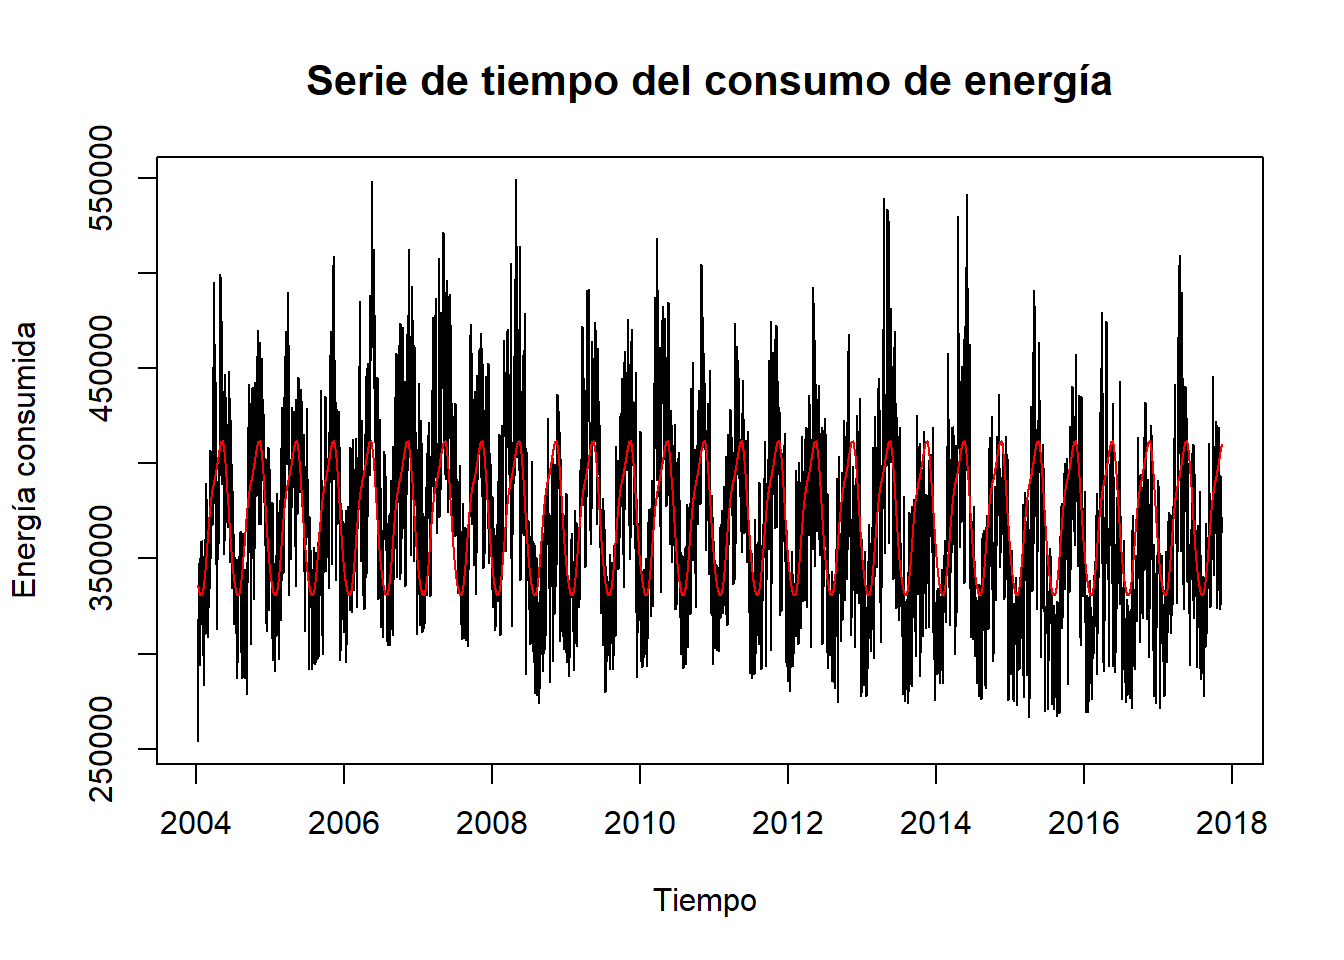
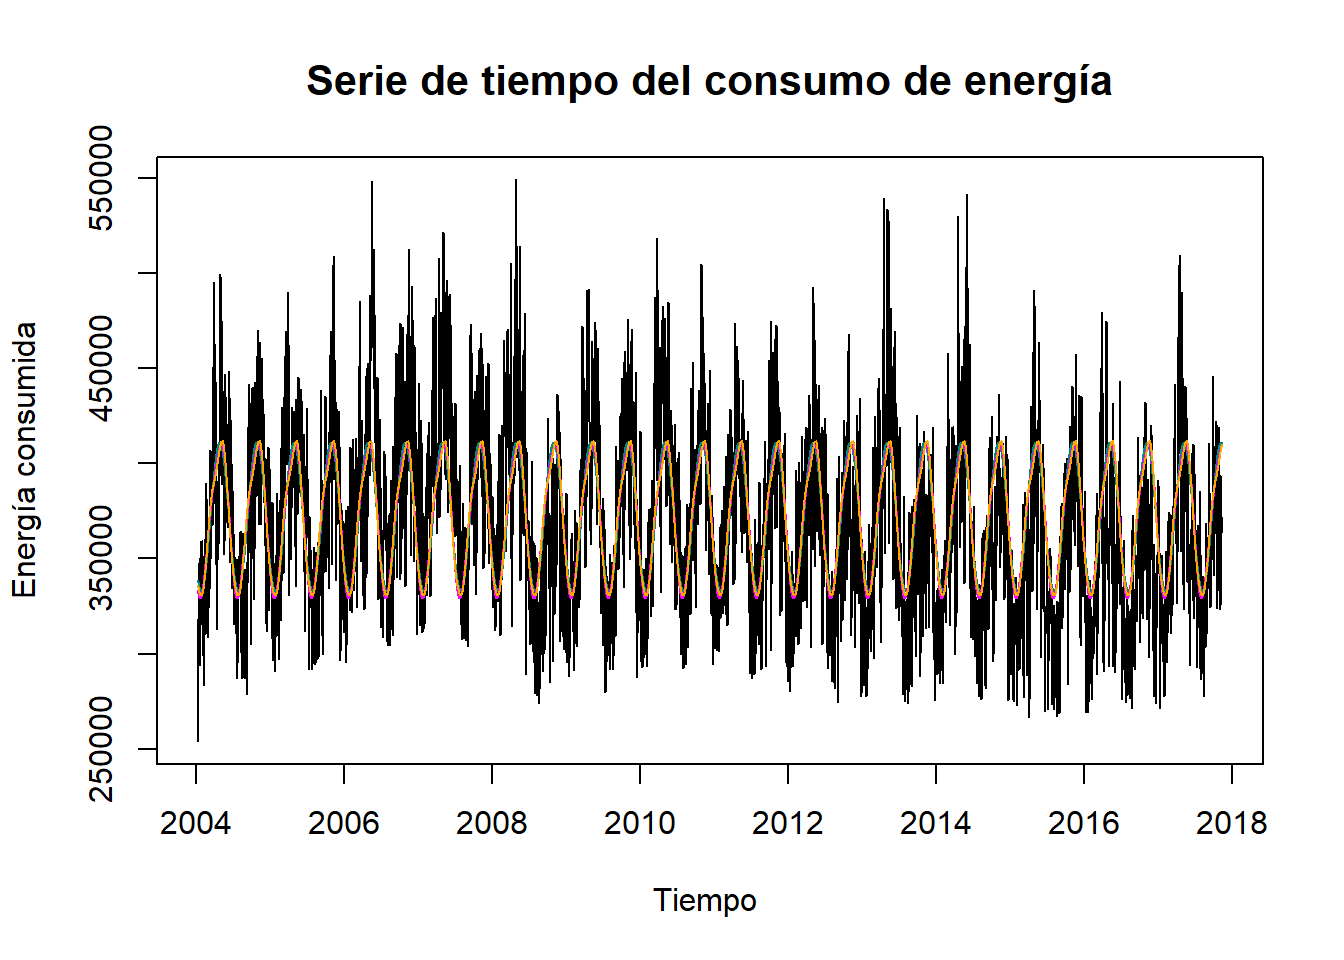
casi terminado x2

Changed region(s): [[0.125, 0.4688, 0.9062, 0.625]]

diff --git a/Libro/Libro/docs/Descriptivo Energia.html b/Libro/Libro/docs/Descriptivo Energia.html
@@ -485,7 +485,7 @@ F-statistic: 313.4 on 1 and 5052 DF,  p-value: &lt; 2.2e-16</code></pre>
 <h3 data-number="2.3.2" class="anchored" data-anchor-id="periodograma"><span class="header-section-number">2.3.2</span> Periodograma</h3>
 <section id="para-los-datos-originales" class="level4" data-number="2.3.2.1">
 <h4 data-number="2.3.2.1" class="anchored" data-anchor-id="para-los-datos-originales"><span class="header-section-number">2.3.2.1</span> Para los datos originales</h4>
-<p>En la <span class="quarto-unresolved-ref">?fig-periodoriginenerg</span> se presenta el periodograma para la serie original, el valor del periodo donde se maximiza el periodograma es <span class="math inline">\(182.86\)</span>, es decir, aproximadamente, el ciclo es de medio año.</p>
+<p>En la <a href="#fig-periodorginenerg">Figura&nbsp;<span>2.14</span></a> se presenta el periodograma para la serie original, el valor del periodo donde se maximiza el periodograma es <span class="math inline">\(182.86\)</span>, es decir, aproximadamente, el ciclo es de medio año.</p>
 <div class="cell">
 <div class="sourceCode cell-code" id="cb20"><pre class="sourceCode r code-with-copy"><code class="sourceCode r"><span id="cb20-1"><a href="#cb20-1" aria-hidden="true" tabindex="-1"></a><span class="co"># Periodograma Datos originales</span></span>
 <span id="cb20-2"><a href="#cb20-2" aria-hidden="true" tabindex="-1"></a><span class="fu">spectrum</span>(<span class="fu">as.numeric</span>(energia2),<span class="at">log=</span><span class="st">'no'</span>)</span>
@@ -570,10 +570,7 @@ F-statistic: 313.4 on 1 and 5052 DF,  p-value: &lt; 2.2e-16</code></pre>
 </section>
 <section id="estimación" class="level3" data-number="2.3.3">
 <h3 data-number="2.3.3" class="anchored" data-anchor-id="estimación"><span class="header-section-number">2.3.3</span> Estimación</h3>
-<p>Para estimar la estacionalidad se usan las componentes de Fourier. Fourier mostró que toda función periódica puede representarse como una suma de funciones sinusoidales de distinta amplitud y frecuencia. La idea entonces es generalizar el análisis anterior para un ciclo a suma de funciones armónicas con distintas frecuencias. Dada la serie de longitud <span class="math inline">\((T)\)</span>, se denomina periodo básico o de Fourier, a las fracciones exactas del tamaño muestral, es decir <span class="math inline">\([s_j=\frac{T}{j},\ \ j=1,2,\cdots,T/2]\)</span>.</p>
-<p>El valor máximo de periodo básico se obtiene para <span class="math inline">\((j=1)\)</span> y es <span class="math inline">\((T)\)</span>, es decir, se observa la onda una sola vez. El mínimo se obtiene para <span class="math inline">\((j=T/2)\)</span> y es <span class="math inline">\(2\)</span> ya que no se puede observar periodos que duren menos de <span class="math inline">\(2\)</span> observaciones. Como antes, suele usarse las frecuencias en lugar de los periodos para el ajuste de los ciclos, así que las frecuencias básicas o de Fourier se define como <span class="math inline">\([f_j=\frac{j}{T}\ \ j=1,2,\cdots,T/2.]\)</span></p>
-<p>Así, <span class="math inline">\((1/T\leq f_j\leq 1/2)\)</span>, y el valor máximo sería <span class="math inline">\((f_j=0.5)\)</span> y se conoce como la frecuencia Nyquist. Con esto, una serie de tiempo <span class="math inline">\((Z_t)\)</span> que es periódica se puede representar mediante <span class="math inline">\([Z_t=\mu+\sum_{j=1}^{T/2}A_j\sin(\omega_j t)+\sum_{j=1}^{T/2}B_j\cos(\omega_j t)+a_t]\)</span>, para seleccionar la frecuencia que debe ser incluída para explicar la serie se usa el periodograma. Se puede verificar que la contribución de una onda a la varianza es dada por <span class="math inline">\((\frac{\hat{R}^2}{2})\)</span>, así que ondas asociadas con amplitudes grandes serán importantes en la explicación de la variabilidad de la serie, mientras que ondas asociadas con amplitudes bajas serán poco importantes. Los estimadores de los coeficientes <span class="math inline">\((A_j)\)</span> y <span class="math inline">\((B_j)\)</span> están dados por <span class="math inline">\(\hat{A}_j=\frac{2}{T}\sum_{t=1}^{T}Z_t\sin(\omega_j t)\)</span>, <span class="math inline">\(\hat{B}_j=\frac{2}{T}\sum_{t=1}^{T}Z_t\cos(\omega_j t)\)</span> y <span class="math inline">\(hat{R}_j=\hat{A}_j^2+\hat{B}_j^2\)</span>, donde <span class="math inline">\((\omega_j=2\pi f_j)\)</span> y <span class="math inline">\((f=\frac{j}{T})\)</span>, con lo cual <span class="math inline">\(TS_z^2=\frac{T}{2}\sum_{j=1}^{T/2}\hat{R}_j^2\)</span>.</p>
-<p>Se puede considerar la amplitud calculada para la frecuencia <span class="math inline">\((f_j)\)</span> como un promedio de las amplitudes existentes en las frecuencias situadas en el intervalo <span class="math inline">\((f_j\pm \frac{1}{2}T)\)</span>. Con esto, se puede obtener el periodograma suavizado construyendo rectángulos con centro <span class="math inline">\((f_j\)</span>), base igual a <span class="math inline">\((1/T)\)</span> y alturas <span class="math inline">\((I(f_j)=T\hat{R}_j/2)\)</span>.</p>
+<p>Ahora procederemos a estimar el ciclo estacional que se observa en esta serie de tiempo, es importante resaltar que con ayuda de los graficos exploratorios y el periodograma se observo que el periodo de la componente estacional es <span class="math inline">\(s=12\)</span>, por lo tanto utilizaremos en primer lugar componentes de fourier, esto teniendo en cuenta que se aprecia que la componente estacional sigue un comportamiento deterministico y posiblemente sinosoidal. Teniendo lo anterior en cuenta el modelo viene dado por: <span class="math display">\[\begin{align*} x_t&amp;= ∑_{i=1}^k a_icos(k𝜔t)+b_isen(k𝜔t) + w_t \\ \end{align*}\]</span> Donde <span class="math inline">\(k\)</span> corresponderá al orden de la expansión en series de Fourier y los coeficientes <span class="math inline">\(a_i\)</span> y <span class="math inline">\(b_i\)</span> con <span class="math inline">\(i=1,...,k\)</span> serán estimados a través del método de mínimos cuadrados. El cálculo de esta componente se muestra a continuación considerando un orden <span class="math inline">\(k=3\)</span>.</p>
 <div class="cell">
 <div class="sourceCode cell-code" id="cb32"><pre class="sourceCode r code-with-copy"><code class="sourceCode r"><span id="cb32-1"><a href="#cb32-1" aria-hidden="true" tabindex="-1"></a>s<span class="ot">=</span><span class="dv">1</span><span class="sc">/</span>PeriodogramaEnergia2<span class="sc">$</span>freq[ubicacionenergia]</span>
 <span id="cb32-2"><a href="#cb32-2" aria-hidden="true" tabindex="-1"></a></span>
@@ -602,8 +599,57 @@ F-statistic: 313.4 on 1 and 5052 DF,  p-value: &lt; 2.2e-16</code></pre>
 <span id="cb33-15"><a href="#cb33-15" aria-hidden="true" tabindex="-1"></a>energia_copia<span class="sc">$</span>sin3 <span class="ot">=</span> <span class="fu">sin</span>(<span class="fu">c</span>(<span class="dv">1</span><span class="sc">:</span><span class="dv">5054</span>)<span class="sc">*</span>(<span class="dv">3</span><span class="sc">*</span>frec_ang))</span>
 <span id="cb33-16"><a href="#cb33-16" aria-hidden="true" tabindex="-1"></a>energia_copia<span class="sc">$</span>cos3 <span class="ot">=</span> <span class="fu">cos</span>(<span class="fu">c</span>(<span class="dv">1</span><span class="sc">:</span><span class="dv">5054</span>)<span class="sc">*</span>(<span class="dv">3</span><span class="sc">*</span>frec_ang))</span>
 <span id="cb33-17"><a href="#cb33-17" aria-hidden="true" tabindex="-1"></a></span>
-<span id="cb33-18"><a href="#cb33-18" aria-hidden="true" tabindex="-1"></a>linmodel_ciclo<span class="ot">&lt;-</span><span class="fu">lm</span>(Energia<span class="sc">~</span><span class="dv">1</span><span class="sc">+</span>sin<span class="sc">+</span>cos<span class="sc">+</span>sin2<span class="sc">+</span>cos2<span class="sc">+</span>sin3<span class="sc">+</span>cos3,<span class="at">data=</span>energia_copia)</span>
-<span id="cb33-19"><a href="#cb33-19" aria-hidden="true" tabindex="-1"></a><span class="fu">summary</span>(linmodel_ciclo)</span></code><button title="Copiar al portapapeles" class="code-copy-button"><i class="bi"></i></button></pre></div>
+<span id="cb33-18"><a href="#cb33-18" aria-hidden="true" tabindex="-1"></a>linmodel_ciclo1<span class="ot">&lt;-</span><span class="fu">lm</span>(Energia<span class="sc">~</span><span class="dv">1</span><span class="sc">+</span>sin<span class="sc">+</span>cos,<span class="at">data=</span>energia_copia)</span>
+<span id="cb33-19"><a href="#cb33-19" aria-hidden="true" tabindex="-1"></a>linmodel_ciclo2<span class="ot">&lt;-</span><span class="fu">lm</span>(Energia<span class="sc">~</span><span class="dv">1</span><span class="sc">+</span>sin<span class="sc">+</span>cos<span class="sc">+</span>sin2<span class="sc">+</span>cos2,<span class="at">data=</span>energia_copia)</span>
+<span id="cb33-20"><a href="#cb33-20" aria-hidden="true" tabindex="-1"></a>linmodel_ciclo3<span class="ot">&lt;-</span><span class="fu">lm</span>(Energia<span class="sc">~</span><span class="dv">1</span><span class="sc">+</span>sin<span class="sc">+</span>cos<span class="sc">+</span>sin2<span class="sc">+</span>cos2<span class="sc">+</span>sin3<span class="sc">+</span>cos3,<span class="at">data=</span>energia_copia)</span>
+<span id="cb33-21"><a href="#cb33-21" aria-hidden="true" tabindex="-1"></a></span>
+<span id="cb33-22"><a href="#cb33-22" aria-hidden="true" tabindex="-1"></a><span class="fu">summary</span>(linmodel_ciclo1)</span></code><button title="Copiar al portapapeles" class="code-copy-button"><i class="bi"></i></button></pre></div>
+<div class="cell-output cell-output-stdout">
+<pre><code>
+Call:
+lm(formula = Energia ~ 1 + sin + cos, data = energia_copia)
+
+Residuals:
+    Min      1Q  Median      3Q     Max 
+-123583  -25009    -763   24258  145198 
+
+Coefficients:
+            Estimate Std. Error t value Pr(&gt;|t|)    
+(Intercept) 371981.5      540.3  688.43   &lt;2e-16 ***
+sin         -21616.9      765.2  -28.25   &lt;2e-16 ***
+cos         -32486.6      763.0  -42.58   &lt;2e-16 ***
+---
+Signif. codes:  0 '***' 0.001 '**' 0.01 '*' 0.05 '.' 0.1 ' ' 1
+
+Residual standard error: 38410 on 5051 degrees of freedom
+Multiple R-squared:  0.3413,    Adjusted R-squared:  0.3411 
+F-statistic:  1309 on 2 and 5051 DF,  p-value: &lt; 2.2e-16</code></pre>
+</div>
+<div class="sourceCode cell-code" id="cb35"><pre class="sourceCode r code-with-copy"><code class="sourceCode r"><span id="cb35-1"><a href="#cb35-1" aria-hidden="true" tabindex="-1"></a><span class="fu">summary</span>(linmodel_ciclo2)</span></code><button title="Copiar al portapapeles" class="code-copy-button"><i class="bi"></i></button></pre></div>
+<div class="cell-output cell-output-stdout">
+<pre><code>
+Call:
+lm(formula = Energia ~ 1 + sin + cos + sin2 + cos2, data = energia_copia)
+
+Residuals:
+    Min      1Q  Median      3Q     Max 
+-121273  -25065    -578   23895  142064 
+
+Coefficients:
+            Estimate Std. Error t value Pr(&gt;|t|)    
+(Intercept) 371998.9      537.7 691.805  &lt; 2e-16 ***
+sin         -21669.2      761.5 -28.455  &lt; 2e-16 ***
+cos         -32508.8      759.4 -42.810  &lt; 2e-16 ***
+sin2          -732.1      760.4  -0.963    0.336    
+cos2         -5398.2      760.4  -7.099 1.43e-12 ***
+---
+Signif. codes:  0 '***' 0.001 '**' 0.01 '*' 0.05 '.' 0.1 ' ' 1
+
+Residual standard error: 38220 on 5049 degrees of freedom
+Multiple R-squared:  0.348, Adjusted R-squared:  0.3475 
+F-statistic: 673.6 on 4 and 5049 DF,  p-value: &lt; 2.2e-16</code></pre>
+</div>
+<div class="sourceCode cell-code" id="cb37"><pre class="sourceCode r code-with-copy"><code class="sourceCode r"><span id="cb37-1"><a href="#cb37-1" aria-hidden="true" tabindex="-1"></a><span class="fu">summary</span>(linmodel_ciclo3)</span></code><button title="Copiar al portapapeles" class="code-copy-button"><i class="bi"></i></button></pre></div>
 <div class="cell-output cell-output-stdout">
 <pre><code>
 Call:
@@ -630,24 +676,34 @@ Residual standard error: 38180 on 5047 degrees of freedom
 Multiple R-squared:  0.3498,    Adjusted R-squared:  0.349 
 F-statistic: 452.5 on 6 and 5047 DF,  p-value: &lt; 2.2e-16</code></pre>
 </div>
-<div class="sourceCode cell-code" id="cb35"><pre class="sourceCode r code-with-copy"><code class="sourceCode r"><span id="cb35-1"><a href="#cb35-1" aria-hidden="true" tabindex="-1"></a>results_ciclo<span class="ot">=</span>linmodel_ciclo<span class="sc">$</span>fitted.values</span>
-<span id="cb35-2"><a href="#cb35-2" aria-hidden="true" tabindex="-1"></a>results_ciclo<span class="ot">&lt;-</span><span class="fu">as.data.frame</span>(results_ciclo)</span>
-<span id="cb35-3"><a href="#cb35-3" aria-hidden="true" tabindex="-1"></a>results_ciclo_ts<span class="ot">&lt;-</span><span class="fu">ts</span>(results_ciclo,<span class="at">start=</span><span class="fu">c</span>(<span class="dv">2004</span>,<span class="dv">10</span>,<span class="dv">01</span>),<span class="at">frequency=</span><span class="fl">365.25</span>)</span></code><button title="Copiar al portapapeles" class="code-copy-button"><i class="bi"></i></button></pre></div>
+<div class="sourceCode cell-code" id="cb39"><pre class="sourceCode r code-with-copy"><code class="sourceCode r"><span id="cb39-1"><a href="#cb39-1" aria-hidden="true" tabindex="-1"></a>results_ciclo1<span class="ot">=</span>linmodel_ciclo1<span class="sc">$</span>fitted.values</span>
+<span id="cb39-2"><a href="#cb39-2" aria-hidden="true" tabindex="-1"></a>results_ciclo1<span class="ot">&lt;-</span><span class="fu">as.data.frame</span>(results_ciclo1)</span>
+<span id="cb39-3"><a href="#cb39-3" aria-hidden="true" tabindex="-1"></a>results_ciclo_ts1<span class="ot">&lt;-</span><span class="fu">ts</span>(results_ciclo1,<span class="at">start=</span><span class="fu">c</span>(<span class="dv">2004</span>,<span class="dv">10</span>,<span class="dv">01</span>),<span class="at">frequency=</span><span class="fl">365.25</span>)</span>
+<span id="cb39-4"><a href="#cb39-4" aria-hidden="true" tabindex="-1"></a></span>
+<span id="cb39-5"><a href="#cb39-5" aria-hidden="true" tabindex="-1"></a>results_ciclo2<span class="ot">=</span>linmodel_ciclo2<span class="sc">$</span>fitted.values</span>
+<span id="cb39-6"><a href="#cb39-6" aria-hidden="true" tabindex="-1"></a>results_ciclo2<span class="ot">&lt;-</span><span class="fu">as.data.frame</span>(results_ciclo2)</span>
+<span id="cb39-7"><a href="#cb39-7" aria-hidden="true" tabindex="-1"></a>results_ciclo_ts2<span class="ot">&lt;-</span><span class="fu">ts</span>(results_ciclo2,<span class="at">start=</span><span class="fu">c</span>(<span class="dv">2004</span>,<span class="dv">10</span>,<span class="dv">01</span>),<span class="at">frequency=</span><span class="fl">365.25</span>)</span>
+<span id="cb39-8"><a href="#cb39-8" aria-hidden="true" tabindex="-1"></a></span>
+<span id="cb39-9"><a href="#cb39-9" aria-hidden="true" tabindex="-1"></a>results_ciclo3<span class="ot">=</span>linmodel_ciclo3<span class="sc">$</span>fitted.values</span>
+<span id="cb39-10"><a href="#cb39-10" aria-hidden="true" tabindex="-1"></a>results_ciclo3<span class="ot">&lt;-</span><span class="fu">as.data.frame</span>(results_ciclo3)</span>
+<span id="cb39-11"><a href="#cb39-11" aria-hidden="true" tabindex="-1"></a>results_ciclo_ts3<span class="ot">&lt;-</span><span class="fu">ts</span>(results_ciclo3,<span class="at">start=</span><span class="fu">c</span>(<span class="dv">2004</span>,<span class="dv">10</span>,<span class="dv">01</span>),<span class="at">frequency=</span><span class="fl">365.25</span>)</span></code><button title="Copiar al portapapeles" class="code-copy-button"><i class="bi"></i></button></pre></div>
 </div>
 <p>En la <span class="quarto-unresolved-ref">?fig-energestacionalidad</span> se presenta la serie original con la estimación de la componente estacional via componentes de Fourier y la serie sin estacionalidad. Se puede notar que las componentes de Fourier logran captar bien es cíclo estacional que tiene la serie, AGREGAR MAIS COZINHAS.</p>
 <div class="cell">
-<div class="sourceCode cell-code" id="cb36"><pre class="sourceCode r code-with-copy"><code class="sourceCode r"><span id="cb36-1"><a href="#cb36-1" aria-hidden="true" tabindex="-1"></a><span class="co"># Series original</span></span>
-<span id="cb36-2"><a href="#cb36-2" aria-hidden="true" tabindex="-1"></a><span class="fu">plot</span>(energia2, <span class="at">main=</span><span class="st">"Serie de tiempo del consumo de energía"</span>,</span>
-<span id="cb36-3"><a href="#cb36-3" aria-hidden="true" tabindex="-1"></a>     <span class="at">cex.main=</span><span class="fl">1.3</span>,</span>
-<span id="cb36-4"><a href="#cb36-4" aria-hidden="true" tabindex="-1"></a>     <span class="at">xlab=</span><span class="st">"Tiempo "</span>,</span>
-<span id="cb36-5"><a href="#cb36-5" aria-hidden="true" tabindex="-1"></a>     <span class="at">ylab=</span><span class="st">"Energía consumida"</span>,</span>
-<span id="cb36-6"><a href="#cb36-6" aria-hidden="true" tabindex="-1"></a>     <span class="at">cex.lab=</span><span class="fl">0.4</span>)</span>
-<span id="cb36-7"><a href="#cb36-7" aria-hidden="true" tabindex="-1"></a></span>
-<span id="cb36-8"><a href="#cb36-8" aria-hidden="true" tabindex="-1"></a><span class="co"># Estimación de la estacionalidad</span></span>
-<span id="cb36-9"><a href="#cb36-9" aria-hidden="true" tabindex="-1"></a><span class="fu">lines</span>(results_ciclo_ts,<span class="at">col=</span><span class="st">"red"</span>)</span>
-<span id="cb36-10"><a href="#cb36-10" aria-hidden="true" tabindex="-1"></a></span>
-<span id="cb36-11"><a href="#cb36-11" aria-hidden="true" tabindex="-1"></a><span class="co"># Serie sin estacionalidad</span></span>
-<span id="cb36-12"><a href="#cb36-12" aria-hidden="true" tabindex="-1"></a><span class="fu">plot</span>(energia2<span class="sc">-</span>results_ciclo_ts)</span></code><button title="Copiar al portapapeles" class="code-copy-button"><i class="bi"></i></button></pre></div>
+<div class="sourceCode cell-code" id="cb40"><pre class="sourceCode r code-with-copy"><code class="sourceCode r"><span id="cb40-1"><a href="#cb40-1" aria-hidden="true" tabindex="-1"></a><span class="co"># Series original</span></span>
+<span id="cb40-2"><a href="#cb40-2" aria-hidden="true" tabindex="-1"></a><span class="fu">plot</span>(energia2, <span class="at">main=</span><span class="st">"Serie de tiempo del consumo de energía"</span>,</span>
+<span id="cb40-3"><a href="#cb40-3" aria-hidden="true" tabindex="-1"></a>     <span class="at">cex.main=</span><span class="fl">1.3</span>,</span>
+<span id="cb40-4"><a href="#cb40-4" aria-hidden="true" tabindex="-1"></a>     <span class="at">xlab=</span><span class="st">"Tiempo "</span>,</span>
+<span id="cb40-5"><a href="#cb40-5" aria-hidden="true" tabindex="-1"></a>     <span class="at">ylab=</span><span class="st">"Energía consumida"</span>,</span>
+<span id="cb40-6"><a href="#cb40-6" aria-hidden="true" tabindex="-1"></a>     <span class="at">cex.lab=</span><span class="fl">0.4</span>)</span>
+<span id="cb40-7"><a href="#cb40-7" aria-hidden="true" tabindex="-1"></a></span>
+<span id="cb40-8"><a href="#cb40-8" aria-hidden="true" tabindex="-1"></a><span class="co"># Estimación de la estacionalidad</span></span>
+<span id="cb40-9"><a href="#cb40-9" aria-hidden="true" tabindex="-1"></a><span class="fu">lines</span>(results_ciclo_ts1,<span class="at">col=</span><span class="st">"darkcyan"</span>)</span>
+<span id="cb40-10"><a href="#cb40-10" aria-hidden="true" tabindex="-1"></a><span class="fu">lines</span>(results_ciclo_ts2,<span class="at">col=</span><span class="st">"magenta"</span>)</span>
+<span id="cb40-11"><a href="#cb40-11" aria-hidden="true" tabindex="-1"></a><span class="fu">lines</span>(results_ciclo_ts3,<span class="at">col=</span><span class="st">"orange"</span>)</span>
+<span id="cb40-12"><a href="#cb40-12" aria-hidden="true" tabindex="-1"></a></span>
+<span id="cb40-13"><a href="#cb40-13" aria-hidden="true" tabindex="-1"></a><span class="co"># Serie sin estacionalidad</span></span>
+<span id="cb40-14"><a href="#cb40-14" aria-hidden="true" tabindex="-1"></a><span class="fu">plot</span>(energia2<span class="sc">-</span>results_ciclo_ts3)</span></code><button title="Copiar al portapapeles" class="code-copy-button"><i class="bi"></i></button></pre></div>
 <div class="cell-output-display">
 <div id="fig-energestacionalidad-1" class="quarto-figure quarto-figure-center anchored">
 <figure class="figure">
